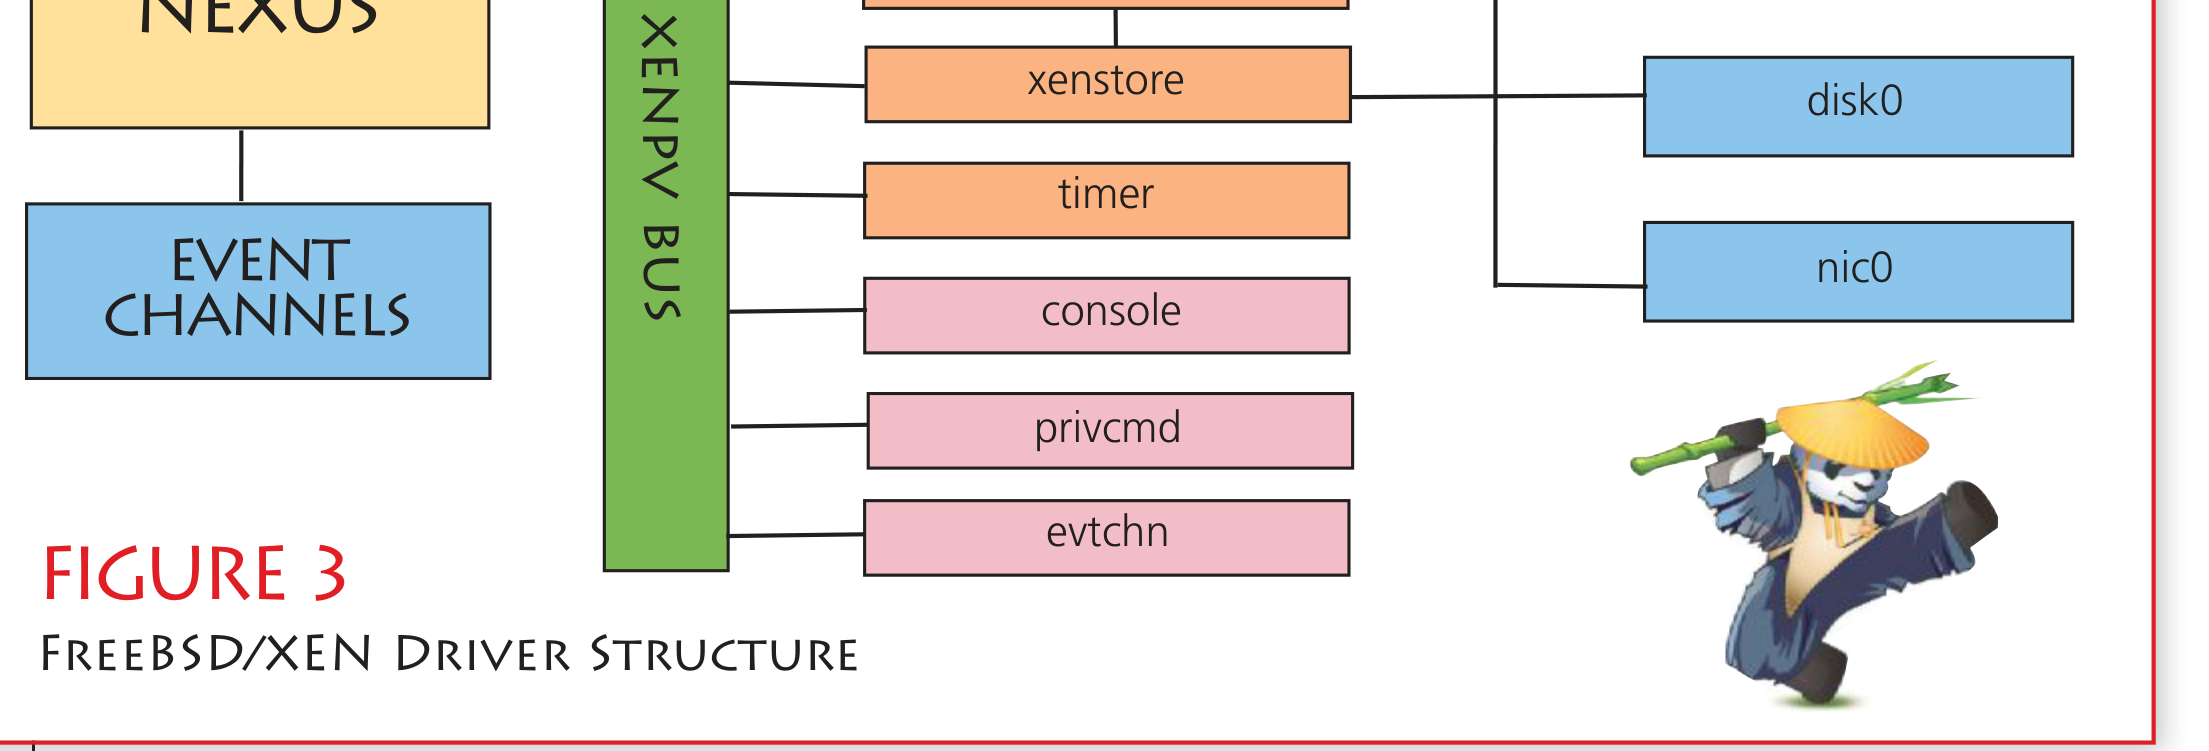
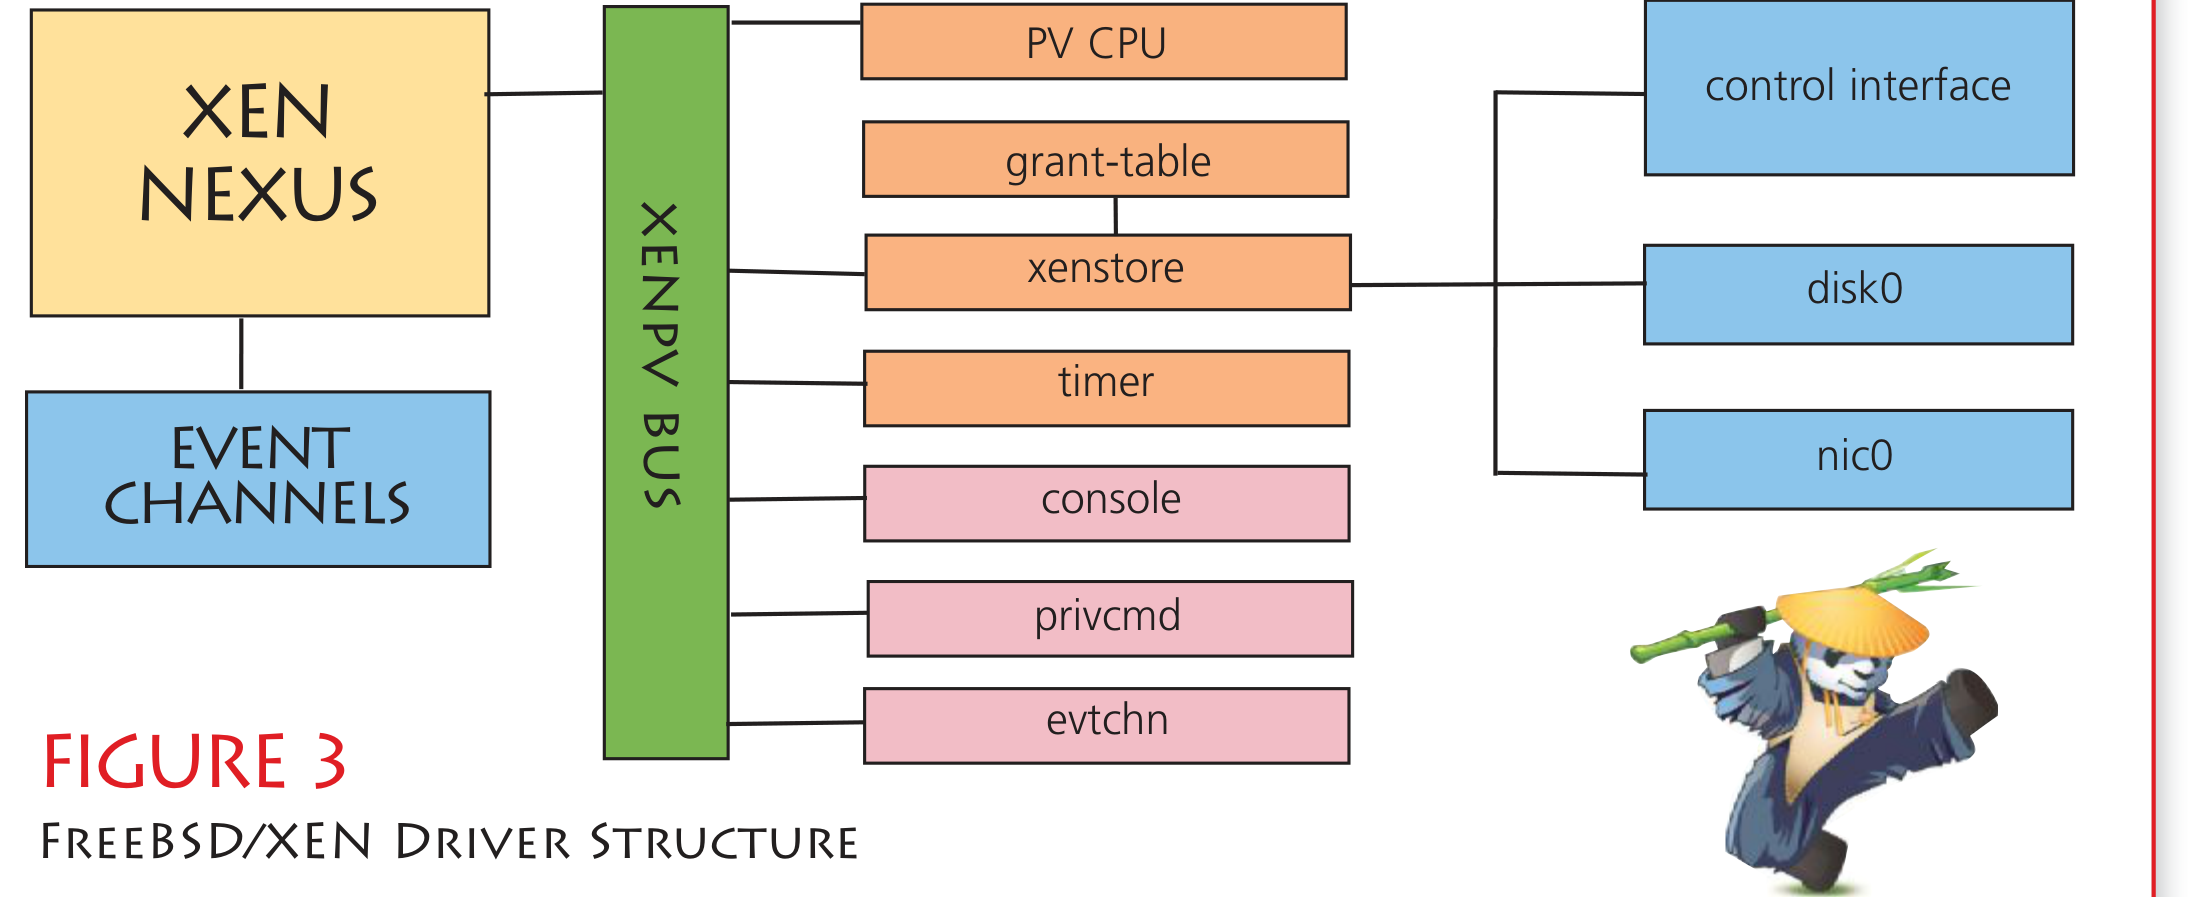
2

diff --git a/2015-1112/using-vagrant-to-test-on-freebsd.md b/2015-1112/using-vagrant-to-test-on-freebsd.md
@@ -1,6 +1,7 @@
 # 在 FreeBSD 上使用 Vagrant 进行测试
 
-**作者**：Brad Davis
+- 原文：[Using Vagrant to Test on FreeBSD](https://freebsdfoundation.org/our-work/journal/browser-based-edition/migrating-jail-management-from-warden-to-iocage/)
+- 作者：**Brad Davis**
 
 随着持续集成在全球开发领域日益普及，让相关团队能够快速拉起一个操作系统（OS）容器、针对该容器进行测试、然后迅速回收这些资源，变得愈发必要。
 
@@ -10,7 +11,7 @@
 
 对测试环境快速访问的需求，催生了若干旨在让敏捷开发者能按需快速创建、测试并回收测试环境的工具与工具集。Vagrant 让任何人都能轻松下载一个 OS 镜像，并迅速在虚拟机（VM）中拉起用于测试。
 
-正如 Vagrant 官网（<http://www.vagrantup.com/about.html）所述：>
+正如 Vagrant 官网（<http://www.vagrantup.com/about.html>）所述：
 
 > Vagrant 是一款用于构建完整开发环境的工具。凭借易用的工作流和对自动化的专注，Vagrant 缩短了开发与环境的搭建时间，提升了开发与生产环境的一致性，并让“在我机器上能跑”这类借口成为历史。
 
@@ -28,21 +29,21 @@ Vagrant 可用于 Windows、Mac OS X、CentOS、Debian 系统，可从 <https://
 
 如前所述，Vagrant 在测试各类配置变更时非常有用。许多在不同企业和开发团队工作的同事每天都在使用它。我最初接触 Vagrant 是通过 Packer。Packer 是 HashiCorp 的另一个项目，旨在通过虚拟机中的虚拟键盘执行命令来编排安装程序。Packer 支持 Amazon Web Services（AWS）、Digital Ocean、VMware、QEMU、Oracle VirtualBox 等众多虚拟化环境中的虚拟机。
 
-HashiCorp 在其网站（<http://www.packer.io）上对> Packer 的定义是：
+HashiCorp 在其网站（<http://www.packer.io>）上对 Packer 的定义是：
 
 > Packer 是一款从单一源配置为多个平台创建机器镜像和容器镜像的工具。
 
-简而言之，Packer 提供了一个进入虚拟机的接口，命令可以像操作员坐在键盘前一样被输入。因此，Packer 脚本主要由键盘命令和等待语句构成。Packer 的输出通过模拟的 VGA 控制台产生，因此脚本无法判断某条命令是否已完成。
+简而言之，Packer 提供了一个进入虚拟机的接口，命令可以像操作员坐在键盘前一样输入。因此，Packer 脚本主要由键盘命令和等待语句构成。Packer 的输出通过模拟的 VGA 控制台产生，因此脚本无法判断某条命令是否已完成。
 
 这一自动化层带来了一些困难，因为 Packer 要求操作员理解所输入命令的时序。如果一条命令在下一命令执行前未能完成，可能无法正确缓冲，导致脚本彻底失败，或之后的每条命令各自失败。因此建议把等待时间留得充裕些。
 
 操作员还必须根据虚拟机所建硬件类型理解系统时序。是用 SSD？机械盘？5400 还是 7200 转 SATA？10K 还是 15K 的 SAS/SCSI？系统的整体健康状况和负载如何？这些因素都会影响所运行命令的时序。
 
-幸运的是，借助 Packer 和 Vagrant，设置和测试这些配置非常轻松，可按需调整。最终，一份 Packer 脚本可以被调优，用于为多个平台构建 VM 镜像。
+幸运的是，借助 Packer 和 Vagrant，设置和测试这些配置非常轻松，可按需调整。最终，一份 Packer 脚本可以调优，用于为多个平台构建 VM 镜像。
 
 ## Packer 与 Vagrant
 
-借助 Packer，我开发出了一套 recipe，能够创建虚拟机、安装 FreeBSD，再将其打包供 Vagrant 使用。该脚本随后可被修改和调优，以支持传统裸金属硬件以及基于固态硬盘的系统。由于 Packer 让构建虚拟机变得如此轻松高效，做实验其实并不痛苦。
+借助 Packer，我开发出了一套 recipe，能够创建虚拟机、安装 FreeBSD，再将其打包供 Vagrant 使用。该脚本随后可以修改和调优，以支持传统裸金属硬件以及基于固态硬盘的系统。由于 Packer 让构建虚拟机变得如此轻松高效，做实验其实并不痛苦。
 
 ## 发布 Vagrant 镜像
 
@@ -61,7 +62,7 @@ HashiCorp 在其网站（<http://www.packer.io）上对> Packer 的定义是：
 
 ### 前置条件
 
-第一步，如果尚未安装 Oracle VirtualBox（<https://www.virtualbox.org/wiki/Downloads）或> VMWare（<https://www.vmware.com/products/desktop-virtualization.html），请先在你的机器上安装。>
+第一步，如果尚未安装 Oracle VirtualBox（<https://www.virtualbox.org/wiki/Downloads>）或 VMWare（<https://www.vmware.com/products/desktop-virtualization.html>），请先在你的机器上安装。
 
 然后从 <http://www.vagrantup.com/downloads.html> 下载 Vagrant。
 
@@ -90,7 +91,7 @@ brad@penelope:~> vagrant ssh
 
 默认情况下，所有 Vagrant base box 都有一个名为“vagrant”的用户，并预装了 ssh 密钥。通常在一个系统上存在已知用户和公开可用的 ssh 密钥是重大的安全漏洞。Vagrant 试图通过把 VM 配置为 NAT 模式、将 VM 隐藏在你本机 IP 地址之后来回应这一顾虑。这能阻止本机以外的任何人直接访问该虚拟机。虽然还可以采取其他安全措施更好地保护本地系统，但这已超出本文范围，此处不做讨论。
 
-关于 Vagrant 系统中 root 用户的另一重要提示：通常会包含 sudo 软件包并配置成允许“vagrant”用户做任何它需要做的事。但如果出于某种原因需要 root 密码，默认的 root 密码是“vagrant”。最新信息请始终参考 Vagrant 文档站点：<https://docs.vagrantup.com/v2/boxes/base.html。>
+关于 Vagrant 系统中 root 用户的另一重要提示：通常会包含 sudo 软件包并配置成允许“vagrant”用户做任何它需要做的事。但如果出于某种原因需要 root 密码，默认的 root 密码是“vagrant”。最新信息请始终参考 Vagrant 文档站点：<https://docs.vagrantup.com/v2/boxes/base.html>。
 
 好了，该装些工具开始了。首先安装 NGINX 和 VIM 软件包（以下命令需以 root 身份执行）：
 
@@ -117,7 +118,7 @@ media: Ethernet autoselect (1000baseT <full-duplex>)
 status: active
 ```
 
-如上所示，这台 Vagrant 机器的 IP 当前是 **172.16.245.130**。打开浏览器访问 <http://172.16.245.130，正常运行> NGINX 实例应返回默认页面。恭喜！NGINX 工作正常。
+如上所示，这台 Vagrant 机器的 IP 当前是 **172.16.245.130**。打开浏览器访问 <http://172.16.245.130>，正常运行的 NGINX 实例应返回默认页面。恭喜！NGINX 工作正常。
 
 ### Vagrant 的威力
 
@@ -179,8 +180,8 @@ brad@penelope:~> vagrant box destroy FreeBSD/FreeBSD-10.2-RELEASE
 
 ## 总结
 
-本文介绍了 Vagrant，以及如何用它拉起虚拟机进行测试。希望这能为你简化工作流、让软件或基础设施的测试与开发更轻松提供一些思路。更多信息请访问 Vagrant 官网：<http://www.vagrantup.com。HashiCorp> 维护着一个名为 Atlas 的 Vagrant box 仓库，用于测试和运行各种操作系统与配置。官方 FreeBSD Vagrant box 列表可在 Atlas 的 FreeBSD 区块查看：<https://atlas.hashicorp.com/freebsd/。>
+本文介绍了 Vagrant，以及如何用它拉起虚拟机进行测试。希望这能为你简化工作流、让软件或基础设施的测试与开发更轻松提供一些思路。更多信息请访问 Vagrant 官网：<http://www.vagrantup.com>。HashiCorp 维护着一个名为 Atlas 的 Vagrant box 仓库，用于测试和运行各种操作系统与配置。官方 FreeBSD Vagrant box 列表可在 Atlas 的 FreeBSD 区块查看：<https://atlas.hashicorp.com/freebsd/>。
 
 **作者简介**
 
-BRAD DAVIS 曾担任系统架构师、开发者和顾问。作为 FreeBSD committer 已逾 10 年，参与项目的许多不同领域。他从文档 committer 起步，并以此知识协助集群管理和 Postmaster 团队。从这些项目退休后，他涉猎过 pkg 和 poudriere 项目。目前 Brad 从事文档、ports 以及 RaspBSD 项目的工作，该项目将为 FreeBSD 在 BeagleBone Black 和 树莓派 等 ARM 系统上提供额外工具。难得有空闲时，Brad 喜欢滑雪和骑摩托车。
+BRAD DAVIS 曾担任系统架构师、开发者和顾问。作为 FreeBSD committer 已逾 10 年，参与项目的许多不同领域。他从文档 committer 起步，并以此知识协助集群管理和 Postmaster 团队。从这些项目退休后，他涉猎过 pkg 和 poudriere 项目。目前 Brad 从事文档、Ports 以及 RaspBSD 项目的工作，该项目将为 FreeBSD 在 BeagleBone Black 和树莓派等 ARM 系统上提供额外工具。难得有空闲时，Brad 喜欢滑雪和骑摩托车。

diff --git a/2022-0506/cloud.md b/2022-0506/cloud.md
@@ -2,7 +2,7 @@
 
 ——本案例研究展示了托管服务提供商的基础设施，使用了 FreeBSD 基本系统中的工具。
 
-- 原文链接：[Building a Resilient Private Cloud With FreeBSD](https://freebsdfoundation.org/wp-content/uploads/2022/06/bell_private_cloud.pdf)
+- 原文：[Building a Resilient Private Cloud With FreeBSD](https://freebsdfoundation.org/wp-content/uploads/2022/06/bell_private_cloud.pdf)
 - 作者：**DANIEL J. BELL**
 
 哦，当然。我们也经历过数据泄露，我见过客户丢失数据。一位潜在客户在询问我所在组织的数据保护记录时，将我那支只有六个人左右的小 IT 团队与规模更大的服务商进行比较，对我的回答显然并不满意。显然，在曼哈顿，大型托管服务提供商常在销售辞令中说“我们从未遭受过数据泄露，也从未丢失客户数据”这样一句常见而有些愚蠢的话。我接着解释说，我们多次帮助客户从数据丢失中恢复，每个组织早晚都会遇到数据泄露和系统故障。正如经验丰富的系统管理员所知，从未经历数据丢失只意味着你的从业时间还不够长，没机会遇到一次。最重要的是做好充分准备。  
@@ -47,7 +47,7 @@ fs1.waynecorp.gtm2 has address 10.20.20.200
 我们始终使用 FreeBSD 安装器默认的 zpool 根结构，并配备 SSD 启动镜像，同时避免在根存储池上安装客户机。对于数据 zpool，我们会创建几个代表主要主机功能的卷：
 
 - **datapool/jail**：我们的 jail 通常包含一个 FreeBSD 基本系统，但有时也会使用较简单的 chroot 环境或 Linux 基本系统。
-- **datapool/vm**：bhyve 虚拟机。每个数据集都包含配置注释和 bhyve 日志，子数据集则包括表示虚拟机虚拟驱动器的 zvol，例如 `datapool/vm/guest.client/c-drive`。这种直观的结构与 vm-bhyve 兼容。
+- **datapool/vm**：bhyve 虚拟机。每个数据集都包含配置注释和 bhyve 日志，子数据集则包括表示虚拟机虚拟驱动器的 zvol，例如 **datapool/vm/guest.client/c-drive**。这种直观的结构与 vm-bhyve 兼容。
 - **datapool/Backup**：这些是备份伙伴的 ZFS 复制，每天至少更新一次。我们还可能包含 rsync 和 rclone 备份（例如来自 Microsoft OneDrive 或其他非 ZFS 环境的备份），并对它们进行快照。
 - **datapool/Archive**：如果一个数据集中没有活跃的复制任务，我们会将其移至'Archive'。例如，当某个实例退役后，我们会使用 `zfs rename` 命令将其转移到这里。
 
@@ -170,8 +170,8 @@ tmp/target-snap
 
 如果虚拟接口名称已经与源系统保持一致，我们只需要检查并启动实例即可。以下是我们的检查清单，以确保备份服务器在需要时能够随时接管：
 
-✓ 备份服务器的虚拟网络已准备就绪，能够接管客户端，同时还运行所需的网络管理软件，例如 VPN 或 `dhcpd`。  
-✓ 其他客户端配置文件均为最新并可随时使用。对于 jails，我们喜欢使用 `/etc/jail.guest_name.conf` 格式，因此当配置缺失时，通常可以一目了然地发现问题。  
+✓ 备份服务器的虚拟网络已准备就绪，能够接管客户机，同时还运行所需的网络管理软件，例如 VPN 或 `dhcpd`。  
+✓ 其他客户机配置文件均为最新并可随时使用。对于 jails，我们喜欢使用 **/etc/jail.guest_name.conf** 格式，因此当配置缺失时，通常可以一目了然地发现问题。  
 ✓ 备份服务器已配置正确的资源和 `sysctl` 设置，例如 Linux 兼容支持。  
 ✓ 复制任务按照正确的计划运行：每日、每小时或每 15 分钟一次。  
 ✓ 迁移和恢复流程已经过文档记录和测试，并且团队成员知道如何操作。  
@@ -179,26 +179,26 @@ tmp/target-snap
 如果一切准备就绪并经过测试，恢复或迁移过程将会非常顺利：
 
 - **如果源系统仍然可用**，先关闭它，执行最后一次快照，并进行最终复制。我们为这些紧急时刻编写了一个专门优化的脚本，以实现最快速的复制，同时避免生成中间快照。详见'技巧与窍门'部分。  
-- **然后，我们复制、移动或克隆快照到生产环境**。对于活跃的客户端，最快捷的方式是直接重命名快照至生产位置，例如：
+- **然后，我们复制、移动或克隆快照到生产环境**。对于活跃的客户机，最快捷的方式是直接重命名快照至生产位置，例如：
 
   ```sh
   zfs rename data1pool/Backup/guest.client data1pool/vm/guest.client
   zfs mount data1pool/vm/guest.client
   ```
 
-- **最后，检查客户端配置并启动实例**。  
+- **最后，检查客户机配置并启动实例**。  
 
-我们经常使用 ZFS 克隆来恢复数据，同时它也是测试客户端迭代更改的好方法，例如，在正式执行数据库升级前进行测试。如果克隆实例需要投入生产，我们总会尽快执行 `zfs promote`，以避免后续可能出现的依赖问题。在本文开头提到的勒索软件恢复案例中，我们使用了克隆，以确保在恢复快照的时间点之后不会丢失任何正常数据。
+我们经常使用 ZFS 克隆来恢复数据，同时它也是测试客户机迭代更改的好方法，例如，在正式执行数据库升级前进行测试。如果克隆实例需要投入生产，我们总会尽快执行 `zfs promote`，以避免后续可能出现的依赖问题。在本文开头提到的勒索软件恢复案例中，我们使用了克隆，以确保在恢复快照的时间点之后不会丢失任何正常数据。
 
 ```sh
 zfs rename data1pool/vm/fs.cli/d-drive data1pool/Backup/fs.cli-d-drive-ransom.
 zfs clone data1pool/Recovery/fs.cli-d-drive-ransom@last-night data1pool/vm/fs.cli/
 d-drive
-[…after hours…]
+[…数小时后…]
 zfs promote data1pool/vm/fs.cli/d-drive
 ```
 
-如果旧的主机仍然可访问，我们可以将迁移的数据集重命名到 `pool/Backup` 数据集中，并切换备份过程。
+如果旧的主机仍然可访问，我们可以将迁移的数据集重命名到 **pool/Backup** 数据集中，并切换备份过程。
 
 ## 小贴士与技巧
 
@@ -255,12 +255,12 @@ nc -N source 60042 | zstdcat | dd of=ada.img bs=1m status=progress
 ```sh
 echo '(hd0) /dev/zvol/ssd11/vm/pbx.bts/vda' > device.map
 grub-bhyve -m device.map -M 8G -r hd0,1 -d /grub2 -g grub.cfg pbx3.bts
-[usual bhyve commands]
+[常规 bhyve 命令]
 ```
 
 ## 结论  
 
-你的灾难恢复计划来自于你的团队，而不是任何数量的云资源；我们必须雇佣、保留并培训合适的人才。在我看来，我们可以做到两者兼得。将大型云提供商保留用于它们擅长的轻量级扩展解决方案，其他方面则使用 FreeBSD 独立服务器，配合 ZFS、bhyve 和 jail，打造坚如磐石的基础。认真对待你的数据，同时还能节省资金。  
+你的灾难恢复计划来自于你的团队，而不是任何数量的云资源；我们必须雇佣、保留并培训合适的人才。在我看来，我们可以做到两者兼得。将大型云提供商保留用于它们擅长的轻量级扩展解决方案，其他方面则使用 FreeBSD 裸金属服务器，配合 ZFS、bhyve 和 jail，打造坚如磐石的基础。认真对待你的数据，同时还能节省资金。  
 
 ---
 

diff --git a/CHANGELOG.md b/CHANGELOG.md
@@ -1,6 +1,24 @@
 # 编辑日志
 
 - 2026.7.9
+  - 三工具全书清理（AutoCorrect、md-padding@latest、markdownlint），spec：three-tools-full-sweep-rerun
+  - 重新生成三工具全量清单：markdownlint 1 处违规（MD009）、AutoCorrect 109 条建议、md-padding 209 文件 +1209/-1188 行
+  - markdownlint 逐项审核：采纳 1 处（2018-0102/book-review.md:12 MD009 行尾空格删除）
+  - AutoCorrect 逐项审核：采纳 1 条（2017-0506/book-review-designing-bsd-rootkits.md:12 删除全角冒号前多余空格），拒绝 108 条（全角标点转半角、连字符加空格、书名号转引号、`+`加空格等）
+  - md-padding 逐项审核：采纳 0 条，拒绝全部 1209 条（代码块内加空格、sup 标签加空格、全角引号加空格、加粗标记加空格等）
+  - 总复核：原 MD009 已修复；AutoCorrect 105 条建议均为已拒绝类别；md-padding 211 文件（原 209 + 2 新 spec 文件）0 采纳；无批量接受、无 `--fix`、无脚本/sed/awk
+- 2026.7.9
+  - 校对 2022-0304 期（ARM64 是一级架构）全部 8 篇文章
+  - 校对《基金会来信》（`- 原文链接`→`- 原文`、URL 修正 2022/03→2022/04、作者改为 **Ed Maste** 去除"编辑委员会"、删除"已"字"已获得"→"获得"、调整工具链描述句式）
+  - 校对《活动日历》（`- 原文链接`→`- 原文`、URL 修正 2022/03→2022/04、作者加粗为 **Anne Dickison**、Office Hours 段落末尾添加 YouTube 链接）
+  - 校对《FreeBSD/ARM64 上的数据科学》（`- 原文链接`→`- 原文`、"所有基于 ARM 的 FreeBSD 系统"→"各种 ARM 平台上支持 FreeBSD"、"不仅仅是另一个 Web 服务器"→"不是又一个 Web 服务器或 NFS 存储阵列"）
+  - 校对《Pinebook Pro 上的 FreeBSD》（`- 原文链接`→`- 原文`、多处 `ports`→`Ports` 首字母大写 4 处、"原版 Manjaro 和 Debian"→"原版 Manjaro 或 Debian"、"Port 和修改后的软件包"→"Ports 和修改后的软件包"、RockPRO64 注意事项中 `u-boot`→"U-Boot"）
+  - 校对《嵌入式控制器的 ACPI 支持》（`- 原文链接`→`- 原文`、"FreeBSD ARM64 端口"→"FreeBSD ARM64 移植"事实性错误修正、"已允许"→"现在允许"避免"已"字滥用、"已在 FreeBSD 内核中实现"→"FreeBSD 内核已实现该方案"、"已探测到的驱动程序"→"探测到的驱动程序"、"这种灵活性经常被厂商滥用"→"厂商经常滥用这种灵活性"被动句改主动句）
+  - 校对《进行中的工作/征求反馈：Lumina 桌面征集开发人员》（`- 原文链接`→`- 原文`、链接文本改为英文原标题、作者加粗为 **TOM JONES** 和 **JT PENNINGTON**）
+  - 校对《实用 Port：如何设置 Apple 时间机器》（`- 原文链接`→`- 原文`、"一切最新 ARM 板"→"任何较新的 ARM 板"翻译修正、代码块 `grouadd`→`groupadd` 和 `groumod`→`groupmod` 拼写修正 3 处、路径格式去除反引号 `/usr/local/etc/afp.conf` 和 `/var/log/afp.log`、补全漏译段落"unix charset"和"zeroconf"两段、`\$u`→`` `$u` `` 转义字符修正）
+  - 校对《读者来信》（`- 原文链接`→`- 原文`、URL 修正 2022/03/letters.pdf→2022/04/MarchApril-Letters.pdf、作者加粗为 **Michael W Lucas**、"花了太多十年"→"花了太多个十年"量词缺失修正）
+  - 英文原文已归档至 en/2022-0304-arm64-is-a-tier-1-architecture/（全部 8 篇）
+- 2026.7.9
   - 校对 2025-789 期（嵌入式）全部 11 篇文章
   - 校对《基金会来信》（添加格式头部：原文链接+作者 **John Baldwin**）
   - 校对《活动日历》（添加格式头部：原文链接+作者 **Anne Dickison**、修正日期 en-dash 为连字符：25–28→25-28、6–7→6-7）

diff --git a/2022-0506/events-calendar.md b/2022-0506/events-calendar.md
@@ -1,7 +1,7 @@
 # 活动日历
 
-- 原文链接：[Events Calendar](https://freebsdfoundation.org/wp-content/uploads/2022/05/events.pdf)
-- 作者：Anne Dickison
+- 原文：[Events Calendar](https://freebsdfoundation.org/wp-content/uploads/2022/06/events_calendarnew.pdf)
+- 作者：**Anne Dickison**
 
 ## 截至 2022 年 11 月的 BSD 活动
 
@@ -12,6 +12,8 @@
 2022 年 7 月 28-31 日
 
 美国加州洛杉矶
+
+<https://www.socallinuxexpo.org/scale/19x>
 
 SCaLE 是北美规模最大的社区主办的开源和自由软件大会。
 
@@ -25,6 +27,8 @@ SCaLE 是北美规模最大的社区主办的开源和自由软件大会。
 
 奥地利维也纳
 
+<https://wiki.freebsd.org/DevSummit/202209>
+
 欢迎参加第一天的演讲与讨论小组，第二天为黑客马拉松。CFP（征稿）已开放。
 
 ## EuroBSDCon 2022
@@ -32,6 +36,8 @@ SCaLE 是北美规模最大的社区主办的开源和自由软件大会。
 2022 年 9 月 15-18 日
 
 奥地利维也纳
+
+<https://2022.eurobsdcon.org>
 
 这场年度大会提供了了解 BSD 世界最新动态的绝佳机会。
 
@@ -41,10 +47,14 @@ SCaLE 是北美规模最大的社区主办的开源和自由软件大会。
 
 美国北卡罗来纳州罗利
 
+<https://2022.allthingsopen.org/>
+
 All Things Open 是美国东海岸规模最大的开源/开放技术/开放网络大会，也是全美规模最大的之一。它定期邀请世界上最知名的专家，还有几乎所有主要科技公司。FreeBSD 很荣幸成为今年 All Things Open 的媒体合作伙伴。
 
 ## FreeBSD Office Hours
 
+<https://wiki.freebsd.org/OfficeHours>
+
 和 FreeBSD 社区成员一起参与 FreeBSD Office Hours。从一般问答到基于主题的演示和教程，Office Hours 是获取 FreeBSD 相关问题答案的好途径。
 
-往期节目可在 FreeBSD YouTube 频道观看。
+往期节目可在 FreeBSD YouTube 频道观看：<https://www.youtube.com/c/FreeBSDProject>

diff --git a/2022-0506/letter-from-the-foundation.md b/2022-0506/letter-from-the-foundation.md
@@ -1,19 +1,19 @@
 # 基金会来信
 
-- 原文链接：[Letter from the Foundation](https://freebsdfoundation.org/wp-content/uploads/2022/05/foundation_letter.pdf)
-- 作者：John Baldwin、编辑委员会
+- 原文：[Letter from the Foundation](https://freebsdfoundation.org/wp-content/uploads/2022/06/MayJune_foundation_letter.pdf)
+- 作者：**John Baldwin**
 
 ## 欢迎阅读《FreeBSD 期刊》五/六月刊！
 
 计算机是有用的工具，能自动化许多任务。然而，有时事情会出错，原因可能是自然灾害、硬件故障、软件缺陷或配置错误。（这四种我都至少留有伤疤。）Daniel Bell 提出了一种策略，可用于构建系统，使其在面对此类故障时具有弹性。
 
-虽然在灾难期间或之后，恢复功能通常是首要任务，但诊断最初故障的原因也很重要。在软件缺陷的情况下，调试器是首要工具。Michal Górny 和 Kamil Rytarowski 介绍了来自 LLVM 项目的最新版 LLDB 调试器。Mark Johnston 讨论了通过网络连接进行内核调试，特别是如何通过网络连接而非本地磁盘保存崩溃转储。
+虽然在灾难期间或之后，恢复功能通常是首要任务，但诊断最初故障的原因也很重要。软件缺陷时，调试器是主要工具。Michal Górny 和 Kamil Rytarowski 介绍了来自 LLVM 项目的最新版 LLDB 调试器。Mark Johnston 讨论了通过网络连接进行内核调试，特别是如何通过网络连接而非本地磁盘保存崩溃转储。
 
 换个话题，Hiroki Sato 开始了一系列文章，介绍在 FreeBSD 上配置和使用 IPv6。
 
 最近，《期刊》的编辑委员会开会规划了未来一年的各期。我们进行了热烈、富有成效且范围广泛的讨论，涵盖 FreeBSD 世界的各种话题。从 2022 年 9/10 月刊开始，《期刊》将以安全、可观测性与度量、构建 FreeBSD Web 服务器、嵌入式、FreeBSD 三十周年、容器与云等主题推出专刊。我们还计划在 FreeBSD 14.0 发布时同步出版一期以 FreeBSD 14 为主题的期刊。
 
-我们乐于聆听读者的声音。如果你有反馈、对未来文章的建议，或者有意为《期刊》撰稿，请通过 <[email redacted]> 联系我们。
+我们乐于倾听读者的意见。如果你有反馈、对未来文章的建议，或者有意为《期刊》撰稿，请通过 <[email redacted]> 联系我们。
 
 **John Baldwin**
 FreeBSD Core Team 成员，FreeBSD 期刊编辑委员会主席